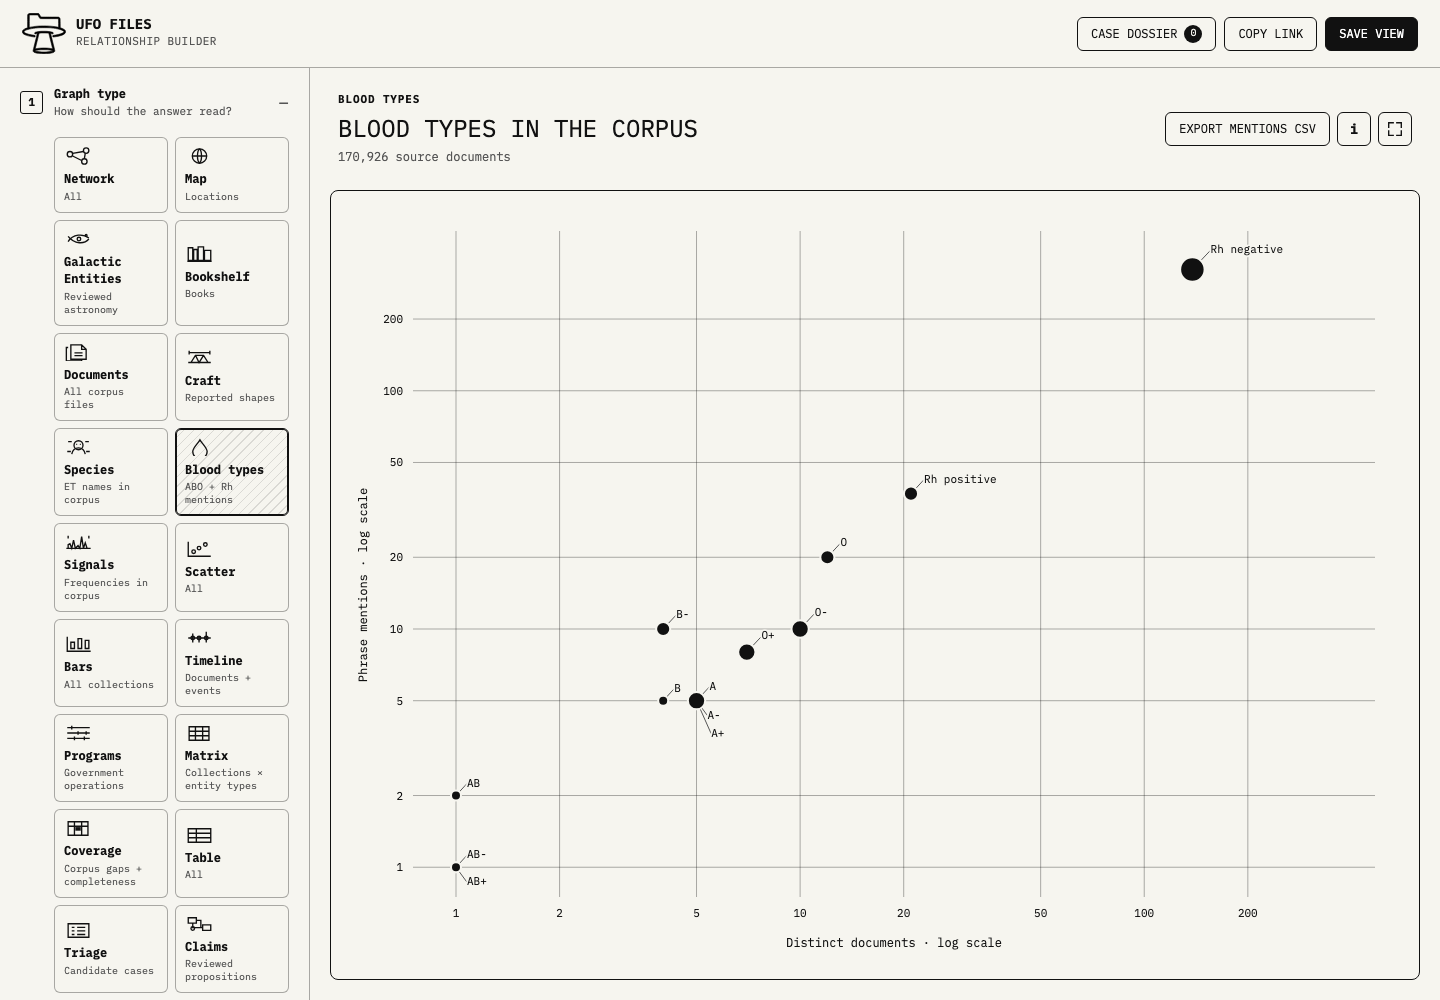
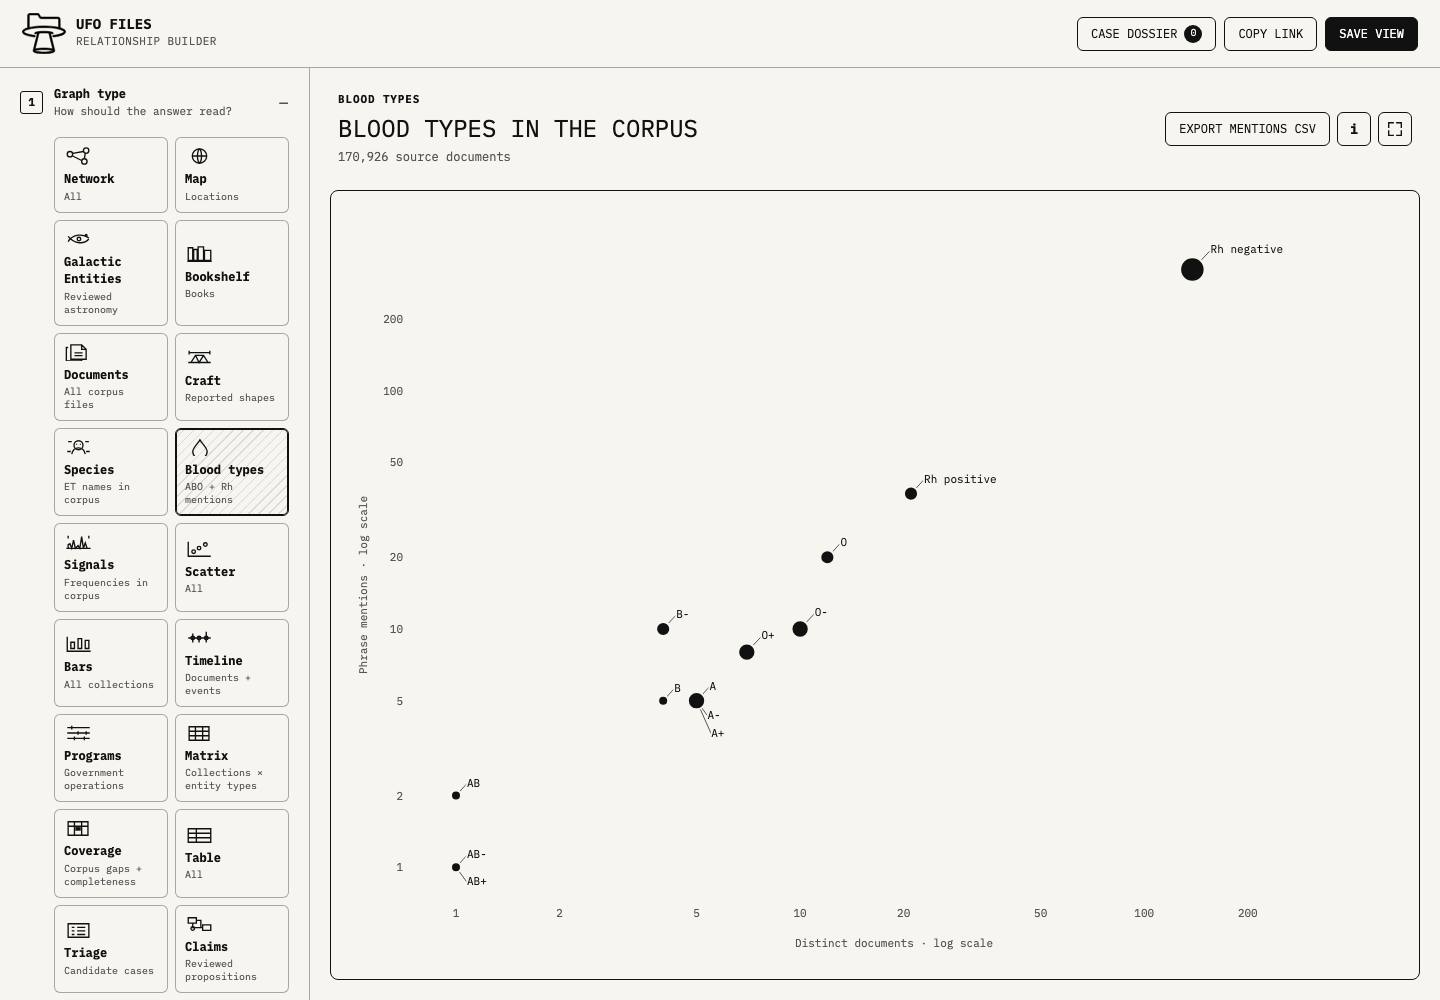
Remove blood scatter grid and reuse shared axis-label styling

diff --git a/app.js b/app.js
@@ -4381,13 +4381,11 @@ function drawBloodScatter(svg, observations, config) {
   const ticks = [];
   for (let power = 0; 10 ** power <= maximum; power++) for (const multiplier of [1, 2, 5]) if (multiplier * 10 ** power <= maximum) ticks.push(multiplier * 10 ** power);
   ticks.forEach(value => {
-    svg.append(el("line", { x1: x(value), x2: x(value), y1: margin.top, y2: height - margin.bottom, class: "blood-grid" }));
-    svg.append(el("line", { x1: margin.left, x2: width - margin.right, y1: y(value), y2: y(value), class: "blood-grid" }));
-    svg.append(el("text", { x: x(value), y: height - margin.bottom + 20, "text-anchor": "middle", class: "blood-axis" }, String(value)));
-    svg.append(el("text", { x: margin.left - 10, y: y(value) + 4, "text-anchor": "end", class: "blood-axis" }, String(value)));
+    svg.append(el("text", { x: x(value), y: height - margin.bottom + 20, "text-anchor": "middle", class: "axis-label" }, String(value)));
+    svg.append(el("text", { x: margin.left - 10, y: y(value) + 4, "text-anchor": "end", class: "axis-label" }, String(value)));
   });
-  svg.append(el("text", { x: (width + margin.left - margin.right) / 2, y: height - 12, "text-anchor": "middle", class: "blood-axis-title" }, "Distinct documents · log scale"));
-  svg.append(el("text", { x: 16, y: height / 2, transform: `rotate(-90 16 ${height / 2})`, "text-anchor": "middle", class: "blood-axis-title" }, "Phrase mentions · log scale"));
+  svg.append(el("text", { x: (width + margin.left - margin.right) / 2, y: height - 12, "text-anchor": "middle", class: "axis-label" }, "Distinct documents · log scale"));
+  svg.append(el("text", { x: 16, y: height / 2, transform: `rotate(-90 16 ${height / 2})`, "text-anchor": "middle", class: "axis-label" }, "Phrase mentions · log scale"));
   const labels = [];
   groups.slice().sort((a, b) => a.documents.size - b.documents.size || a.mentions - b.mentions).forEach(group => {
     const px = x(group.documents.size), py = y(group.mentions), radius = 5 * Math.sqrt(group.sources.size), textWidth = group.type.length * 7 + 10;

diff --git a/styles.css b/styles.css
@@ -716,9 +716,7 @@ body.graph-fullscreen #chart { min-height: 0; }
 .blood-view { padding: 20px; max-width: 1100px; margin: auto; }
 .blood-overview button { font: inherit; padding: 8px 12px; border: 1px solid var(--line); border-radius: 4px; background: transparent; cursor: pointer; }
 .blood-scatter { display: block; width: 100%; overflow: visible; }
-.blood-grid { stroke: var(--line); stroke-width: 1; }
-.blood-axis, .blood-scatter-point text { font-size: 11px; fill: var(--ink); }
-.blood-axis-title { font-size: 12px; fill: var(--ink); }
+.blood-scatter-point text { font-size: 11px; fill: var(--ink); }
 .blood-scatter-point { cursor: pointer; }
 .blood-scatter-point circle { fill: var(--ink); stroke: var(--paper); stroke-width: 2; }
 .blood-scatter-point text { paint-order: stroke; stroke: var(--paper); stroke-width: 4px; stroke-linejoin: round; }
